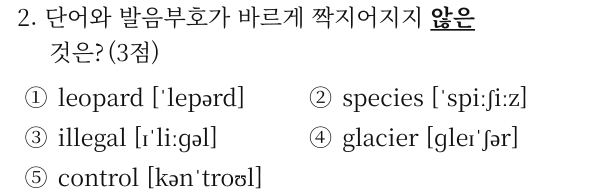
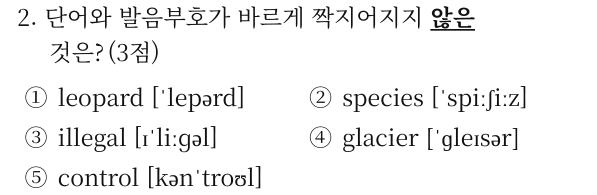
fix(naesintest): 발음부호 문항 정답 보기를 강세 오류 → 발음부호 오류로 수정, 문항 글자 크기 키움
- 정답 보기가 강세 위치만 틀린 24문항: 강세는 맞고 발음부호 하나가 틀린 보기로 바꿔 문항 그림 재생성
- V1117: 해당 24문항 해설 첫 단락 수정(정답 번호·배점 그대로)
- 시험·채점 화면 문항 그림 폭 358px → 480px(OMR 답안지와 글자 크기 맞춤)

Claude-Session: https://claude.ai/code/session_0198GJFWttEvJNyN4GGM6ZV5

Changed region(s): [[0.6935, 0.6462, 0.8744, 0.8]]

diff --git a/src/main/resources/static/css/naesin.css b/src/main/resources/static/css/naesin.css
@@ -101,8 +101,8 @@ body.nt-body {
 
 /* ---------- 시험 화면 ---------- */
 .nt-run .nt-sheet-wrap { margin-bottom: 24px; }
-/* 시험지 한 단(실제 크기 358px) 폭에 맞춰 시험지와 답안지를 가운데로 모은다. */
-.nt-run .nt-sheet-wrap { max-width: 840px; }
+/* 문항 그림(480px) 폭에 맞춰 시험지와 답안지를 가운데로 모은다. */
+.nt-run .nt-sheet-wrap { max-width: 900px; }
 .nt-run-grid { display: grid; grid-template-columns: minmax(0, 1fr) 300px; gap: 20px; align-items: start; margin-top: 16px; }
 .nt-run .nt-page { padding: 18px 24px 26px; }
 .nt-time { font: 700 22px/1 var(--nt-sans); font-variant-numeric: tabular-nums; letter-spacing: .02em; }
@@ -121,12 +121,12 @@ body.nt-body {
 .nt-mark input { width: 17px; height: 17px; accent-color: var(--nt-ink); }
 
 .nt-sheet { padding: 18px 0 6px; display: grid; gap: 14px; }
-/* 문항 그림은 시험지 실제 크기로 보여 준다: 160dpi로 자른 597px 단 → 화면 96dpi 기준 358px(약 9.5cm). */
-.nt-img { display: block; width: 358px; max-width: 100%; height: auto; margin: 0 auto; }
+/* 문항 그림 폭 480px: 글자 크기가 오른쪽 OMR 답안지 글자와 비슷해지도록 실제 시험지(358px)보다 키운다. 원본 그림은 597px. */
+.nt-img { display: block; width: 480px; max-width: 100%; height: auto; margin: 0 auto; }
 .nt-passage { padding-bottom: 14px; border-bottom: 1px dashed var(--nt-rule); }
 
 .nt-pick {
-  width: 358px; max-width: 100%; margin: 6px auto 0; border: 1.5px solid var(--nt-omr); background: var(--nt-omr-tint); color: var(--nt-omr);
+  width: 480px; max-width: 100%; margin: 6px auto 0; border: 1.5px solid var(--nt-omr); background: var(--nt-omr-tint); color: var(--nt-omr);
 }
 .nt-pick-head, .nt-pick-row { display: grid; grid-template-columns: 64px repeat(5, 1fr); align-items: center; }
 .nt-pick-head { border-bottom: 1px solid var(--nt-omr); font: 500 12px/1 var(--nt-sans); text-align: center; padding: 5px 0; letter-spacing: .2em; }

diff --git a/src/test/java/f2r/tutor_solution/private_tutor_solution_back/domain/testprep/controller/TestPrepFlowMySqlIntegrationTest.java b/src/test/java/f2r/tutor_solution/private_tutor_solution_back/domain/testprep/controller/TestPrepFlowMySqlIntegrationTest.java
@@ -416,4 +416,19 @@ class TestPrepFlowMySqlIntegrationTest {
       assertThat(((Number) rows.get(i).get("n")).intValue()).as("R%02d 문항 수", i + 1).isEqualTo(i >= 10 && i <= 12 ? 70 : 40);
     }
   }
+
+  @Test
+  @DisplayName("given 발음부호 문항(V1117), when 해설을 읽으면 강세가 아니라 발음부호 오류를 설명하고 정답 번호는 그대로다")
+  void naesinIpaQuestions_explainSymbolErrors() {
+    // given / when
+    List<Map<String, Object>> rows = jdbc.queryForList(
+        "SELECT e.exam_code, q.order_no, q.answer_key, q.explanation FROM tp_questions q JOIN tp_exams e ON e.exam_id = q.exam_id"
+            + " WHERE e.kind = 'NAESIN' AND q.explanation LIKE '정답 _ · 발음부호%' ORDER BY e.exam_code, q.order_no");
+    // then
+    assertThat(rows).hasSize(32);
+    assertThat(rows).noneMatch(r -> r.get("explanation").toString().contains("주강세"));
+    Map<String, Object> r1 = rows.get(0);
+    assertThat(r1.get("answer_key")).isEqualTo("B");
+    assertThat(r1.get("explanation").toString()).contains("바른 발음부호는 [prɪˈzɜːrv]", "②는 [s]로 적어 틀리다");
+  }
 }

diff --git a/docs/design/naesintest.md b/docs/design/naesintest.md
@@ -16,8 +16,12 @@
 
 ## 화면
 - 목록: 시험지 머리 표(과목·학년·범위·회차), 응시 안내, 범위별(Lesson 7 / Lesson 8 / Lesson 7·8 종합 / Final) 표. 로그인 회원에게는 회차별 최근 점수와 이어 풀기를 보여 준다.
-- 시험: 시험지 머리 표에 남은 시간. 왼쪽 시험지(문항 그림은 실제 시험지 크기 358px, 공통 지문, 문항 아래 실제 OMR 한 줄 모양의 답란: 번호 칸 + 세로 타원 1~5), 오른쪽 OMR 답안지(분홍빨강 인쇄, 사인펜처럼 검게 칠함, 번호 누르면 이동). 좁은 화면에서는 답안지가 아래에서 올라온다. 숫자 1~5·좌우 화살표 지원. 실제 OMR처럼 칠한 칸을 다시 눌러도 지워지지 않는다(바꾸려면 다른 칸). 답은 바로 저장(`PUT …/answers`), 시간이 끝나면 자동 제출. 저장과 제출 요청은 한 줄로 세워 하나씩 보낸다(같은 문항 동시 저장 방지).
+- 시험: 시험지 머리 표에 남은 시간. 왼쪽 시험지(문항 그림 폭 480px(글자 크기를 OMR 답안지와 비슷하게), 공통 지문, 문항 아래 실제 OMR 한 줄 모양의 답란: 번호 칸 + 세로 타원 1~5), 오른쪽 OMR 답안지(분홍빨강 인쇄, 사인펜처럼 검게 칠함, 번호 누르면 이동). 좁은 화면에서는 답안지가 아래에서 올라온다. 숫자 1~5·좌우 화살표 지원. 실제 OMR처럼 칠한 칸을 다시 눌러도 지워지지 않는다(바꾸려면 다른 칸). 답은 바로 저장(`PUT …/answers`), 시간이 끝나면 자동 제출. 저장과 제출 요청은 한 줄로 세워 하나씩 보낸다(같은 문항 동시 저장 방지).
 - 채점: 빨간 펜 점수(맞힌 배점/만점), 문항별 ○/╱ 표, “틀린 문제/전체” 전환, 문항마다 내 답·정답·배점·해설(정답 줄, 풀이, 근거, 어법 포인트).
 
 ## 시간 계산
 서버 마감은 7200초로 두고, 화면은 `경과 = 7200 − 서버 남은 시간`으로 시작 시각을 되살린 뒤 `문항 수 × 30초`에서 뺀다. 새로 고침하거나 나갔다 와도 시간이 이어진다.
+
+## 발음부호 문항 수정(2026-11-15, V1117)
+- 정답 보기가 강세 위치만 틀린 24문항을 "강세는 맞고 발음부호 하나가 틀린" 보기로 바꿨다(정답 번호·배점 그대로). 문항 그림을 다시 만들고 해설 첫 단락을 고쳤다.
+- 원본 PDF(문제지·정답 해설)도 같은 내용으로 고쳐 사용자에게 전달했다.

diff --git a/docs/DOMAIN.md b/docs/DOMAIN.md
@@ -4,6 +4,7 @@
 
 - `tp_questions.points` INT NULL(V1115): 문항 배점. 내신 실전 연습(`kind='NAESIN'`)만 채우고 SAT·TOEFL 문항은 `NULL`. Entity `TpQuestion.points`.
 - V1116: 압구정중 2학년 2026학년도 2학기 기말 대비 F2R 예상문제 16회분. `tp_exams` 16행(`TP-NAESIN-APM2-2602-R01`~`R16`, `kind='NAESIN'`, `time_limit_sec=7200`) + `tp_questions` 730행(1~10회·14~16회 40문항, 종합 11~13회 70문항, `section='EN'`, `task_type='NAESIN_MC5'`, ①~⑤ → `answer_key` A~E). 문항은 원본 문제지 PDF를 문항 단위로 자른 그림(`static/naesin/apgujeong-m2-2026-2/rNN/qNN.webp`, 공통 지문은 `pAA-BB.webp`)을 `prompt`/`body_text`에 `[[img:경로]]`로 담는다. 회차별 배점 합계 = 문제지 표지 총점.
+- V1117: 발음부호 문항 24개 해설 수정(정답 보기를 강세가 아닌 발음부호 오류로 바꿈, 정답·배점 그대로). 스키마 변경 없음.
 - 내신 채점: 섹션 `scaled` = 맞힌 문항 배점 합, `scaleMax` = 배점 합계. 화면 `/naesintest`는 [design/naesintest.md](design/naesintest.md).
 
 ## TESTPREP 문항 해설란 · Digital SAT 세트 (V1112·V1113)
